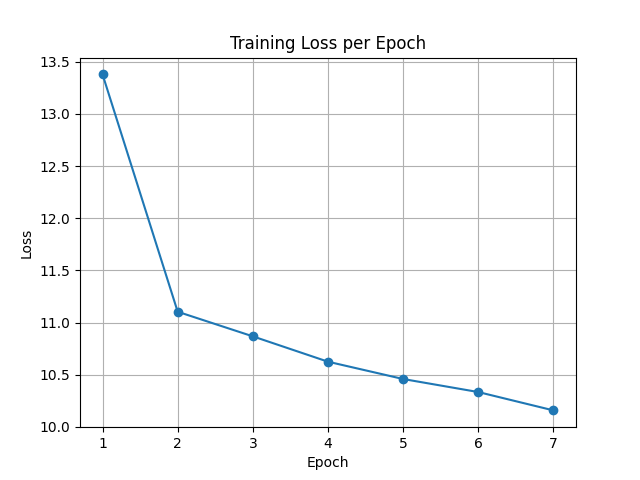
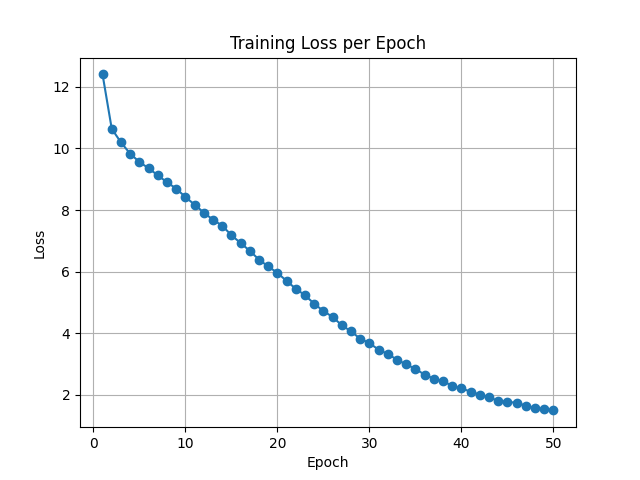
Updates on 7th june

diff --git a/HeadNotPretrained/CheckAccuracy.py b/HeadNotPretrained/CheckAccuracy.py
@@ -1,0 +1,158 @@
+import torch
+from torch.utils.data import DataLoader
+from torchvision.datasets import VOCDetection
+from torchvision import transforms as T
+from models.mobilenet_ssd import create_mobilenet_ssd
+from tqdm import tqdm
+import numpy as np
+from pycocotools.coco import COCO
+from pycocotools.cocoeval import COCOeval
+import json
+import os
+
+VOC_CLASSES = [
+    "aeroplane", "bicycle", "bird", "boat", "bottle",
+    "bus", "car", "cat", "chair", "cow", "diningtable",
+    "dog", "horse", "motorbike", "person", "pottedplant",
+    "sheep", "sofa", "train", "tvmonitor"
+]
+
+def collate_fn(batch):
+    return tuple(zip(*batch))
+
+def get_voc_dataset(root, year="2012", image_set="val"):
+    def target_transform(annotation):
+        objs = annotation['annotation']['object']
+        if not isinstance(objs, list): objs = [objs]
+        boxes, labels = [], []
+        for obj in objs:
+            bbox = obj['bndbox']
+            box = [
+                float(bbox['xmin']),
+                float(bbox['ymin']),
+                float(bbox['xmax']),
+                float(bbox['ymax'])
+            ]
+            boxes.append(box)
+            labels.append(VOC_CLASSES.index(obj['name']) + 1)
+        return {
+            "boxes": torch.tensor(boxes, dtype=torch.float32),
+            "labels": torch.tensor(labels, dtype=torch.int64)
+        }
+    transform = T.Compose([
+        T.Resize((320, 320)),
+        T.ToTensor(),
+        T.Normalize(mean=[0.485, 0.456, 0.406], std=[0.229, 0.224, 0.225])
+    ])
+    dataset = VOCDetection(
+        root=root,
+        year=year,
+        image_set=image_set,
+        download=True,
+        transform=transform,
+        target_transform=target_transform
+    )
+    return dataset
+
+def voc_to_coco(val_dataset):
+    images = []
+    annotations = []
+    categories = []
+    ann_id = 1
+    for i, cls in enumerate(VOC_CLASSES):
+        categories.append({"id": i+1, "name": cls})
+    for img_id, (img, target) in enumerate(val_dataset):
+        images.append({
+            "id": img_id,
+            "width": img.shape[2],
+            "height": img.shape[1],
+            "file_name": str(img_id) + ".jpg"
+        })
+        boxes = target["boxes"]
+        labels = target["labels"]
+        for box, label in zip(boxes, labels):
+            x_min, y_min, x_max, y_max = box.tolist()
+            width = x_max - x_min
+            height = y_max - y_min
+            annotations.append({
+                "id": ann_id,
+                "image_id": img_id,
+                "category_id": int(label),
+                "bbox": [x_min, y_min, width, height],
+                "area": width * height,
+                "iscrowd": 0
+            })
+            ann_id += 1
+    return {
+        "info": {"description": "VOC to COCO converted dataset"},
+        "licenses": [],
+        "images": images,
+        "annotations": annotations,
+        "categories": categories
+    }
+
+@torch.no_grad()
+def evaluate_model(model, data_loader, device):
+    model.eval()
+    for idx, (images, targets) in enumerate(tqdm(data_loader, desc="Evaluating")):
+        images = [img.to(device) for img in images]
+        outputs = model(images)
+        for i, (output, target) in enumerate(zip(outputs, targets)):
+            pred_labels = output['labels'].cpu().numpy()
+            gt_labels = target['labels'].cpu().numpy()
+            print(f"Image {idx * data_loader.batch_size + i}: {len(pred_labels)} predictions, {len(gt_labels)} ground truths")
+        if idx == 4:
+            break  # Only print for first 5 batches
+    print("\nDirect label accuracy is not meaningful for detection. Use mAP for proper evaluation.")
+
+@torch.no_grad()
+def evaluate_model_map(model, data_loader, val_dataset, device):
+    model.eval()
+    print('Evaluating model for mAP...')
+    coco_gt_dict = voc_to_coco(val_dataset)
+    gt_json = "eval_tmp/voc_gt.json"
+    os.makedirs("eval_tmp", exist_ok=True)
+    with open(gt_json, "w") as f:
+        json.dump(coco_gt_dict, f)
+    coco_gt = COCO(gt_json)
+    results = []
+    img_id = 0
+    for images, targets in tqdm(data_loader, desc="Evaluating"):
+        images = [img.to(device) for img in images]
+        outputs = model(images)
+        for i, output in enumerate(outputs):
+            boxes = output["boxes"].cpu().numpy()
+            scores = output["scores"].cpu().numpy()
+            labels = output["labels"].cpu().numpy()
+            for box, score, label in zip(boxes, scores, labels):
+                x_min, y_min, x_max, y_max = box.tolist()
+                width = x_max - x_min
+                height = y_max - y_min
+                results.append({
+                    "image_id": img_id + i,
+                    "category_id": int(label),
+                    "bbox": [x_min, y_min, width, height],
+                    "score": float(score)
+                })
+        img_id += len(images)
+    pred_json = "eval_tmp/voc_pred.json"
+    with open(pred_json, "w") as f:
+        json.dump(results, f)
+    coco_dt = coco_gt.loadRes(pred_json)
+    coco_eval = COCOeval(coco_gt, coco_dt, iouType="bbox")
+    coco_eval.evaluate()
+    coco_eval.accumulate()
+    coco_eval.summarize()
+
+def main():
+    device = torch.device('cuda' if torch.cuda.is_available() else 'cpu')
+    model = create_mobilenet_ssd(num_classes=21).to(device)
+    checkpoint = torch.load("checkpoints/ssd_epoch_50.pth", map_location=device)
+    model.load_state_dict(checkpoint['model_state_dict'])
+    val_dataset = get_voc_dataset(root="../VOCdata", year="2012", image_set="val")
+    val_loader = DataLoader(val_dataset, batch_size=8, shuffle=False, num_workers=2, collate_fn=collate_fn)
+    print(f"Evaluating on {len(val_dataset)} samples...")
+    evaluate_model_map(model, val_loader, val_dataset, device)
+
+if __name__ == "__main__":
+    main()

diff --git a/HeadNotPretrained/train.py b/HeadNotPretrained/train.py
@@ -80,7 +80,7 @@ def train_one_epoch(model, optimizer, data_loader, device, epoch):
         epoch_loss += losses.item()
 
     avg_loss = epoch_loss / len(data_loader)
-    print(f"Epoch [{epoch}] Loss: {avg_loss:.4f}")
+    print(f"Epoch [{epoch+1}] Loss: {avg_loss:.4f}")
     return avg_loss
 
 def plot_losses(losses):
